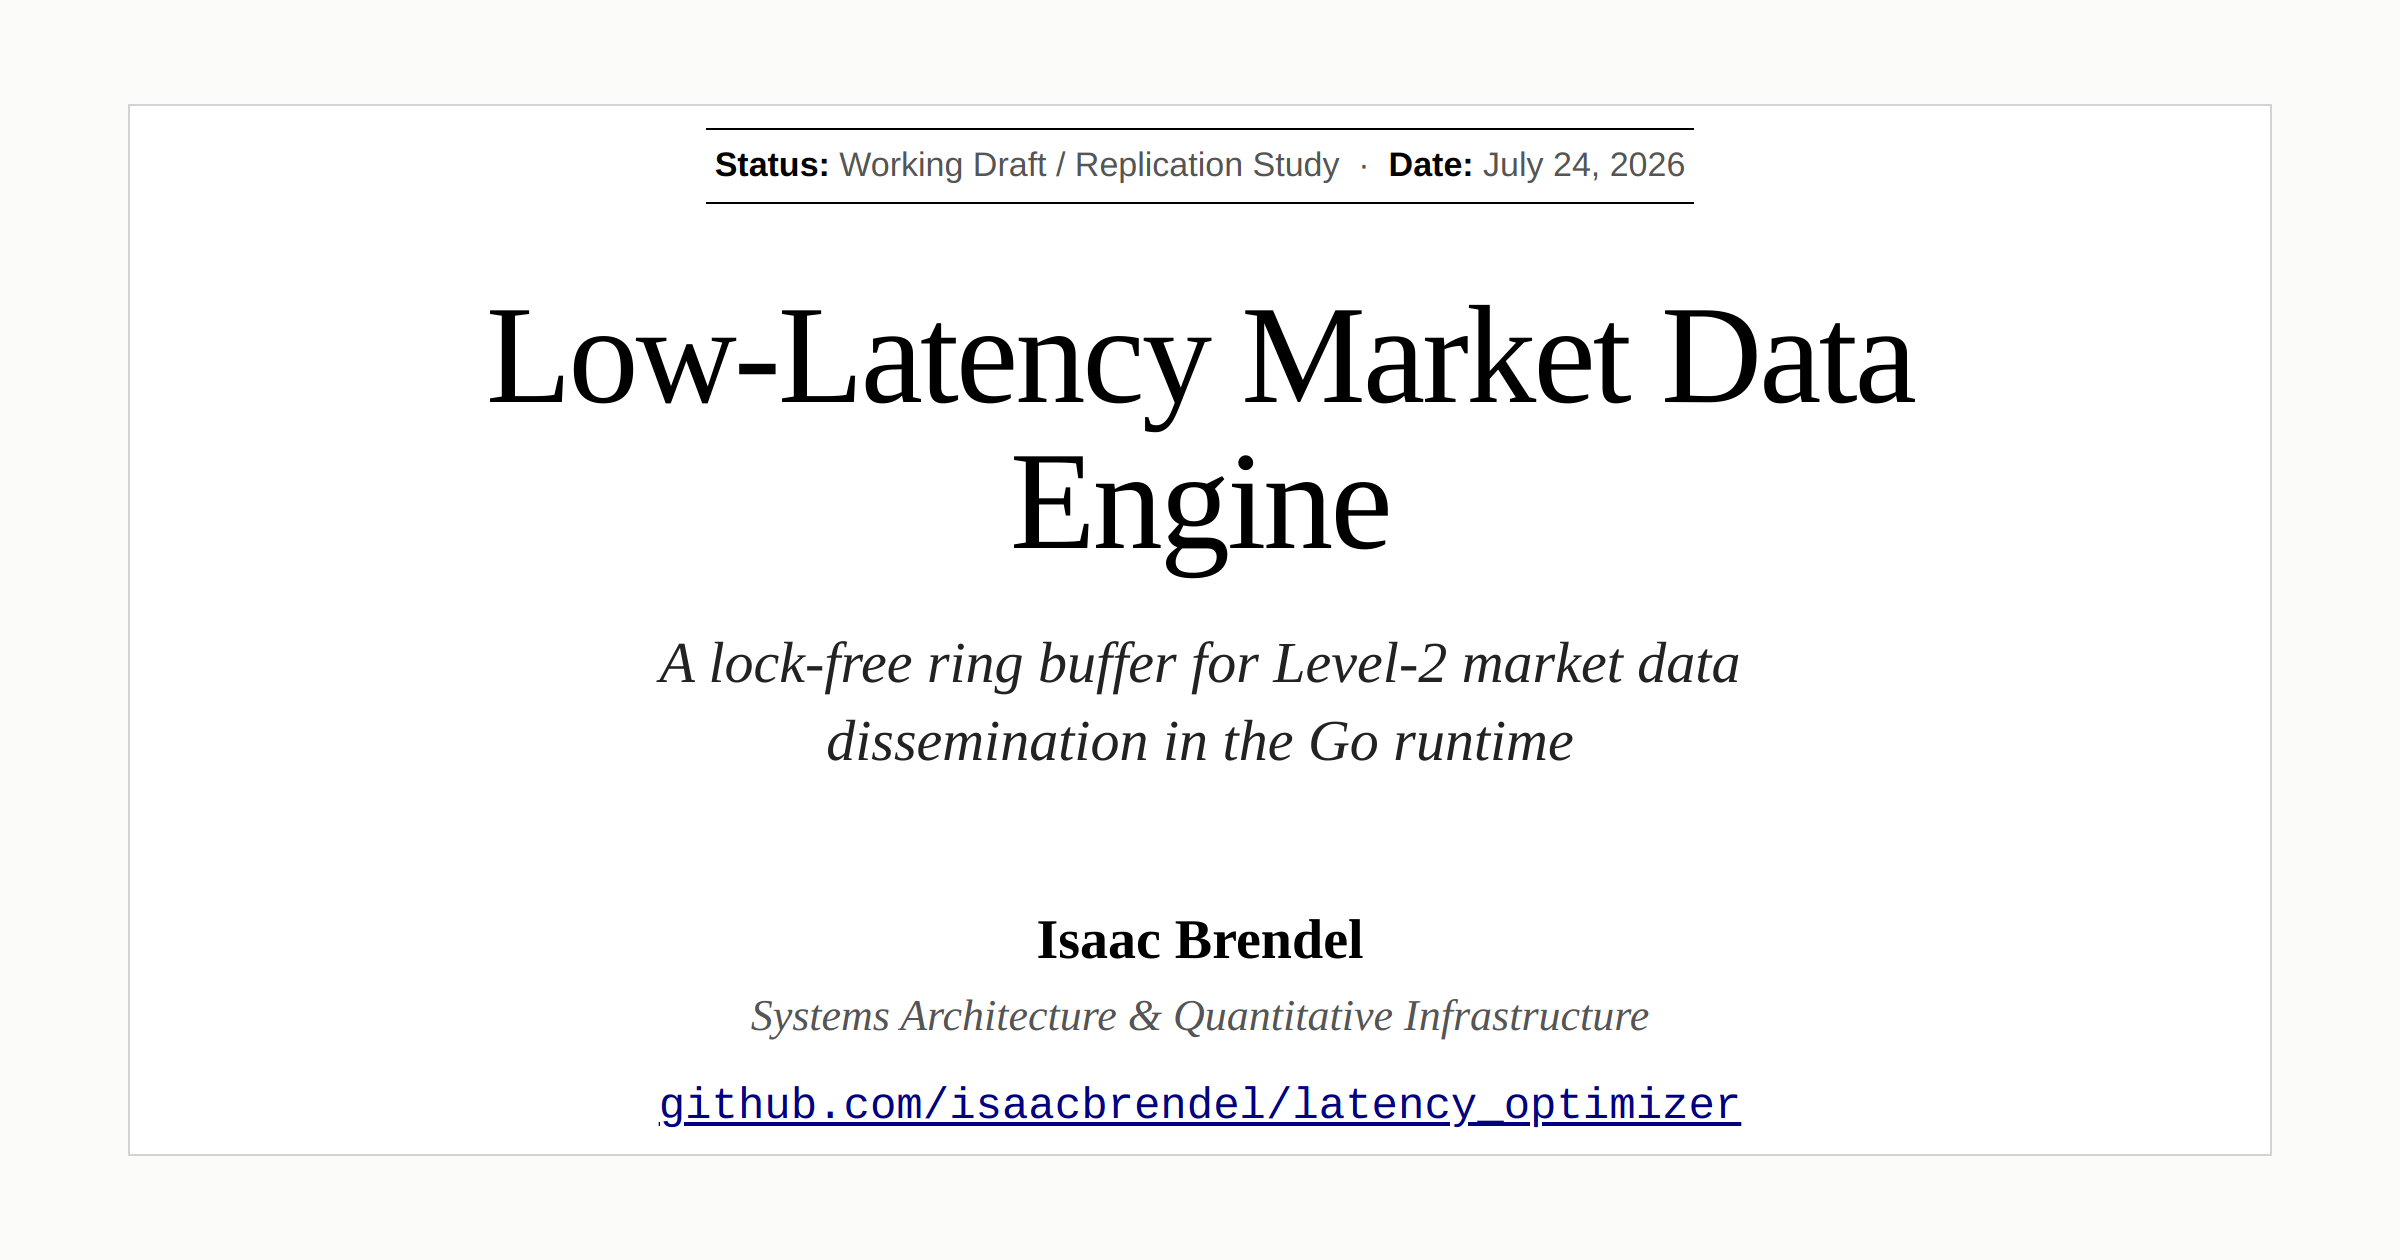
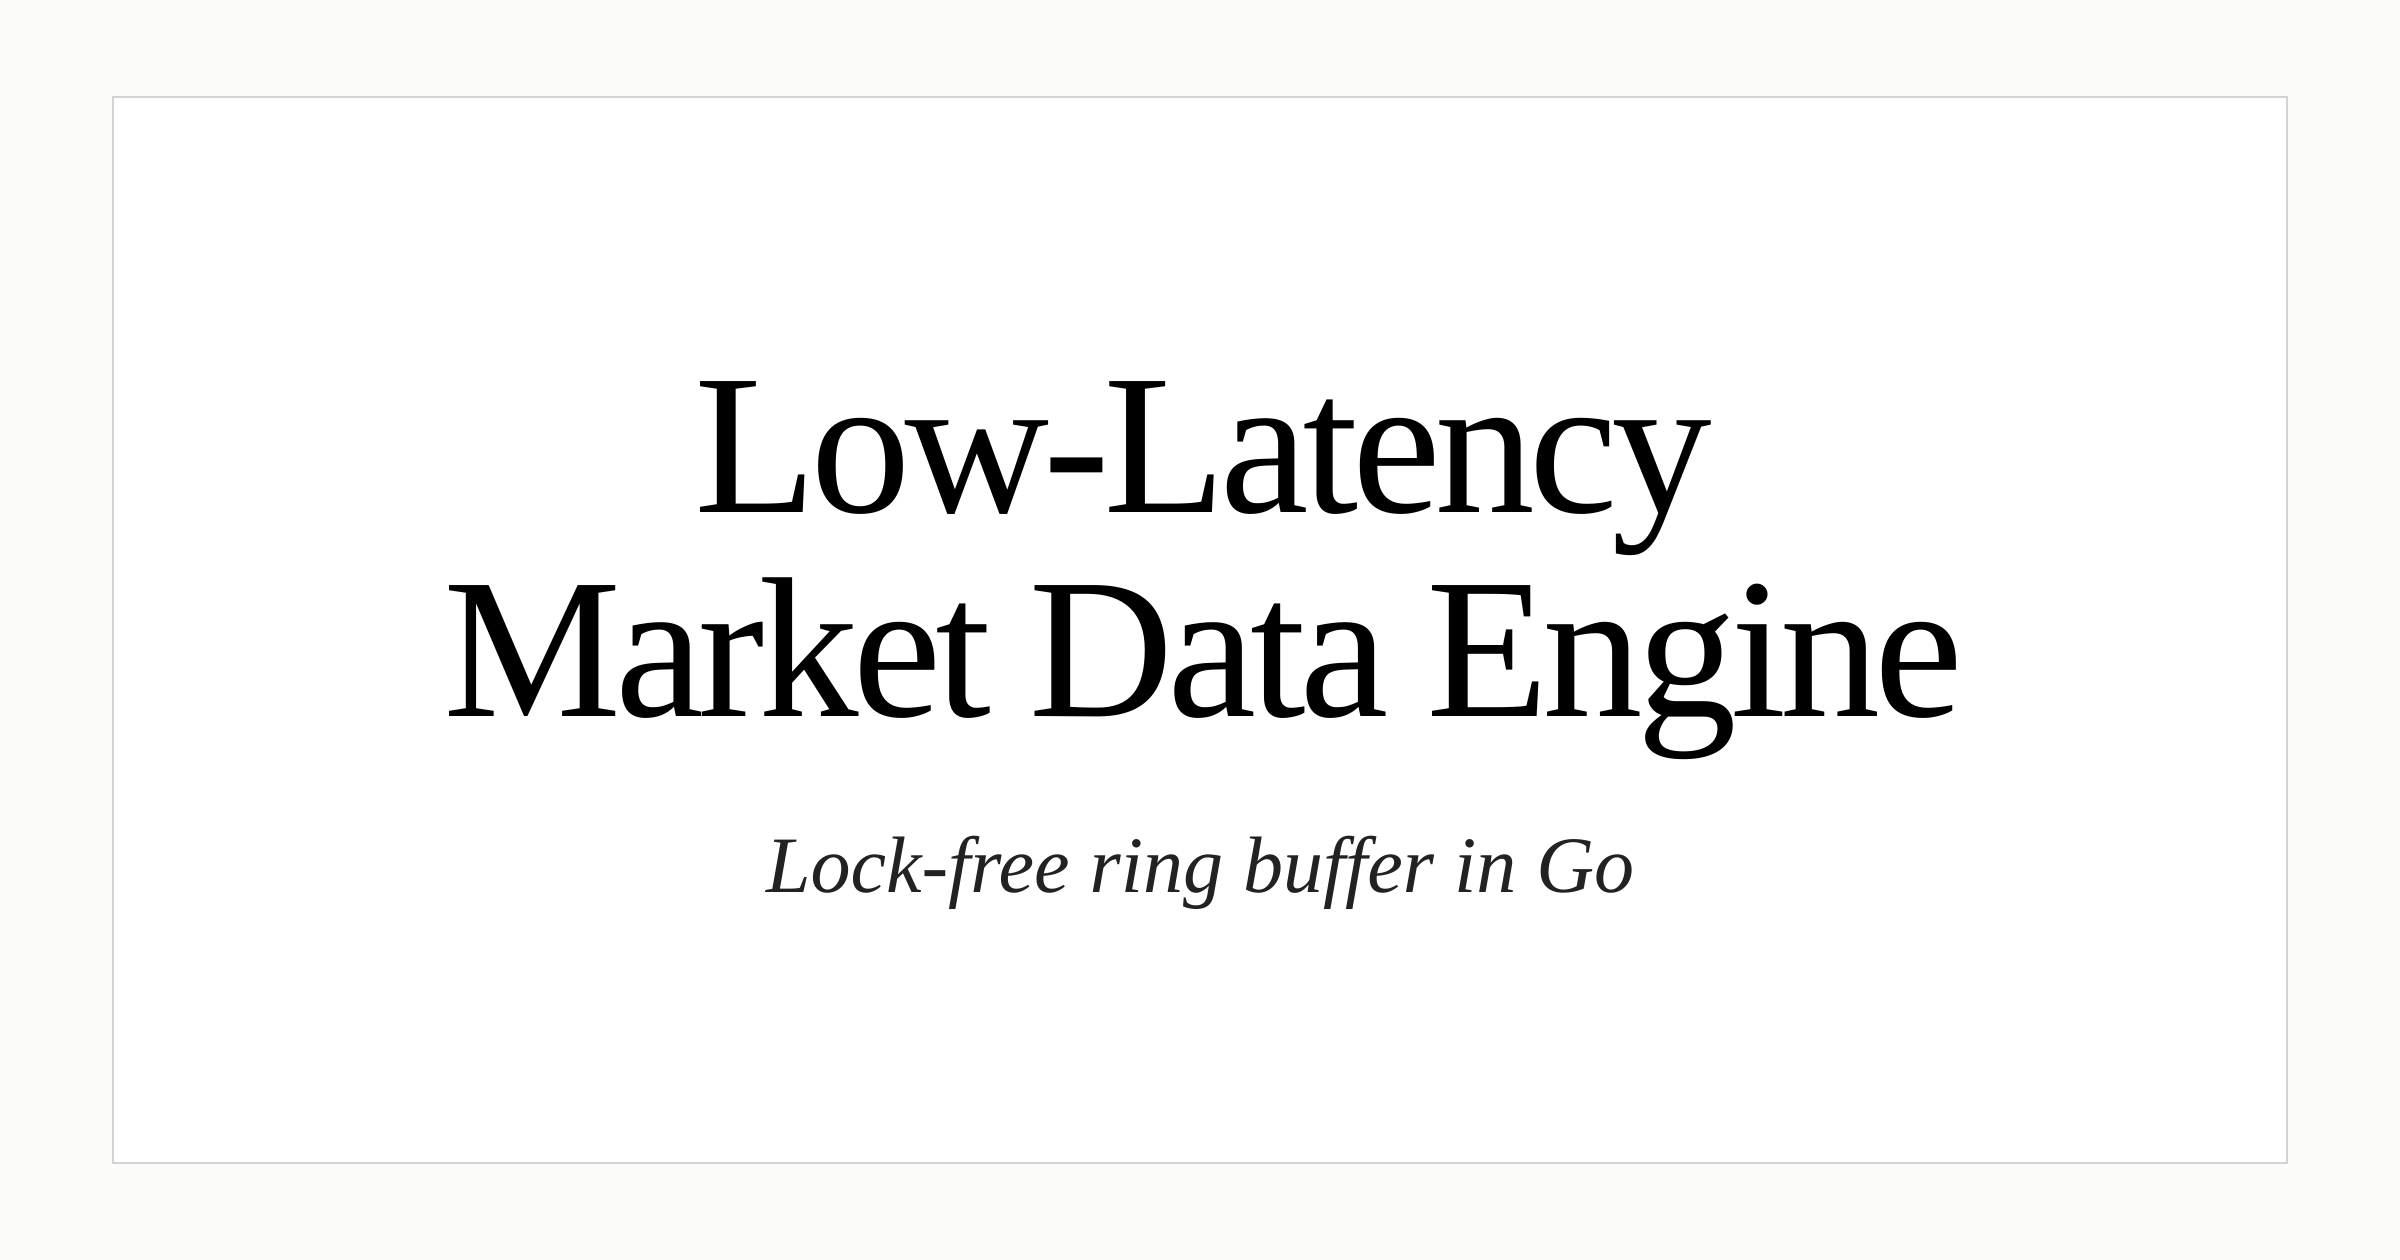
Strip Featured thumb to two readable lines
Only the project title and one short thesis — sized to survive
LinkedIn Featured card width with no expand.

diff --git a/docs/assets/og-compose.html b/docs/assets/og-compose.html
@@ -2,132 +2,44 @@
 <html lang="en">
 <head>
   <meta charset="UTF-8" />
-  <title>Featured — Latency Optimizer</title>
+  <title>Featured — readable</title>
   <style>
-    /*
-      LinkedIn Featured card — purpose:
-      Stop the scroll by looking like the real workstation title page,
-      readable at ~300px, no metric figures.
-      Materials sampled from latency-optimizer.vercel.app
-    */
     :root {
       --bg-page: #fbfbf9;
       --bg-paper: #ffffff;
       --border: #d3d3d3;
-      --ink: #000000;
-      --dim: #555555;
-      --muted: #222222;
-      --navy: #000080;
+      --ink: #000;
+      --muted: #222;
       --serif: "Times New Roman", Times, Georgia, serif;
-      --sans: "Helvetica Neue", Helvetica, Arial, sans-serif;
-      --mono: "Courier New", Courier, Monaco, monospace;
     }
-    * {
-      box-sizing: border-box;
-      margin: 0;
-      padding: 0;
-      border-radius: 0 !important;
-      box-shadow: none !important;
-      text-shadow: none !important;
-    }
+    * { box-sizing: border-box; margin: 0; padding: 0; border-radius: 0 !important; box-shadow: none !important; }
     html, body {
-      width: 1200px;
-      height: 630px;
-      overflow: hidden;
-      background: var(--bg-page);
-      color: var(--ink);
-      font-family: var(--serif);
+      width: 1200px; height: 630px; overflow: hidden;
+      background: var(--bg-page); color: var(--ink); font-family: var(--serif);
     }
     .stage {
-      width: 1200px;
-      height: 630px;
-      background: var(--bg-page);
-      /* Generous page surround — the site’s off-white is the brand signal */
-      padding: 52px 64px;
-      display: flex;
+      width: 1200px; height: 630px; padding: 48px 56px; background: var(--bg-page);
     }
     .paper {
-      flex: 1;
-      background: var(--bg-paper);
-      border: 1px solid var(--border);
-      display: flex;
-      flex-direction: column;
-      align-items: center;
-      justify-content: center;
-      text-align: center;
-      padding: 40px 72px;
+      width: 100%; height: 100%;
+      background: var(--bg-paper); border: 1px solid var(--border);
+      display: flex; flex-direction: column; align-items: center; justify-content: center;
+      text-align: center; padding: 48px 72px;
     }
-    .status {
-      font-family: var(--sans);
-      font-size: 17px;
-      color: var(--dim);
-      border-top: 1px solid #000;
-      border-bottom: 1px solid #000;
-      padding: 8px 4px;
-      margin-bottom: 40px;
-    }
-    .status strong { color: #000; }
-
     h1 {
-      font-weight: 400;
-      font-size: 70px;
-      line-height: 1.05;
-      letter-spacing: -0.02em;
-      max-width: 920px;
-      margin-bottom: 24px;
+      font-weight: 400; font-size: 100px; line-height: 1.02;
+      letter-spacing: -0.03em; margin-bottom: 32px;
     }
-    .thesis {
-      font-style: italic;
-      font-size: 29px;
-      line-height: 1.35;
-      color: var(--muted);
-      max-width: 820px;
-      margin-bottom: 36px;
-    }
-    .rule {
-      width: 48px;
-      height: 1px;
-      background: #000;
-      margin-bottom: 28px;
-    }
-    .author {
-      font-size: 28px;
-      font-weight: 700;
-      margin-bottom: 8px;
-    }
-    .affil {
-      font-size: 22px;
-      font-style: italic;
-      color: var(--dim);
-      margin-bottom: 20px;
-    }
-    .link {
-      font-family: var(--mono);
-      font-size: 22px;
-      color: var(--navy);
-      text-decoration: underline;
+    .line {
+      font-style: italic; font-size: 40px; line-height: 1.25; color: var(--muted);
     }
   </style>
 </head>
 <body>
   <div class="stage">
     <div class="paper">
-      <div class="status">
-        <strong>Status:</strong> Working Draft / Replication Study &nbsp;·&nbsp;
-        <strong>Date:</strong> July 24, 2026
-      </div>
-
-      <h1>Low-Latency Market Data Engine</h1>
-      <p class="thesis">
-        A lock-free ring buffer for Level-2 market data<br />
-        dissemination in the Go runtime
-      </p>
-
-      <div class="rule" aria-hidden="true"></div>
-
-      <div class="author">Isaac Brendel</div>
-      <div class="affil">Systems Architecture &amp; Quantitative Infrastructure</div>
-      <a class="link" href="https://github.com/isaacbrendel/latency_optimizer">github.com/isaacbrendel/latency_optimizer</a>
+      <h1>Low-Latency<br />Market Data Engine</h1>
+      <p class="line">Lock-free ring buffer in Go</p>
     </div>
   </div>
 </body>
